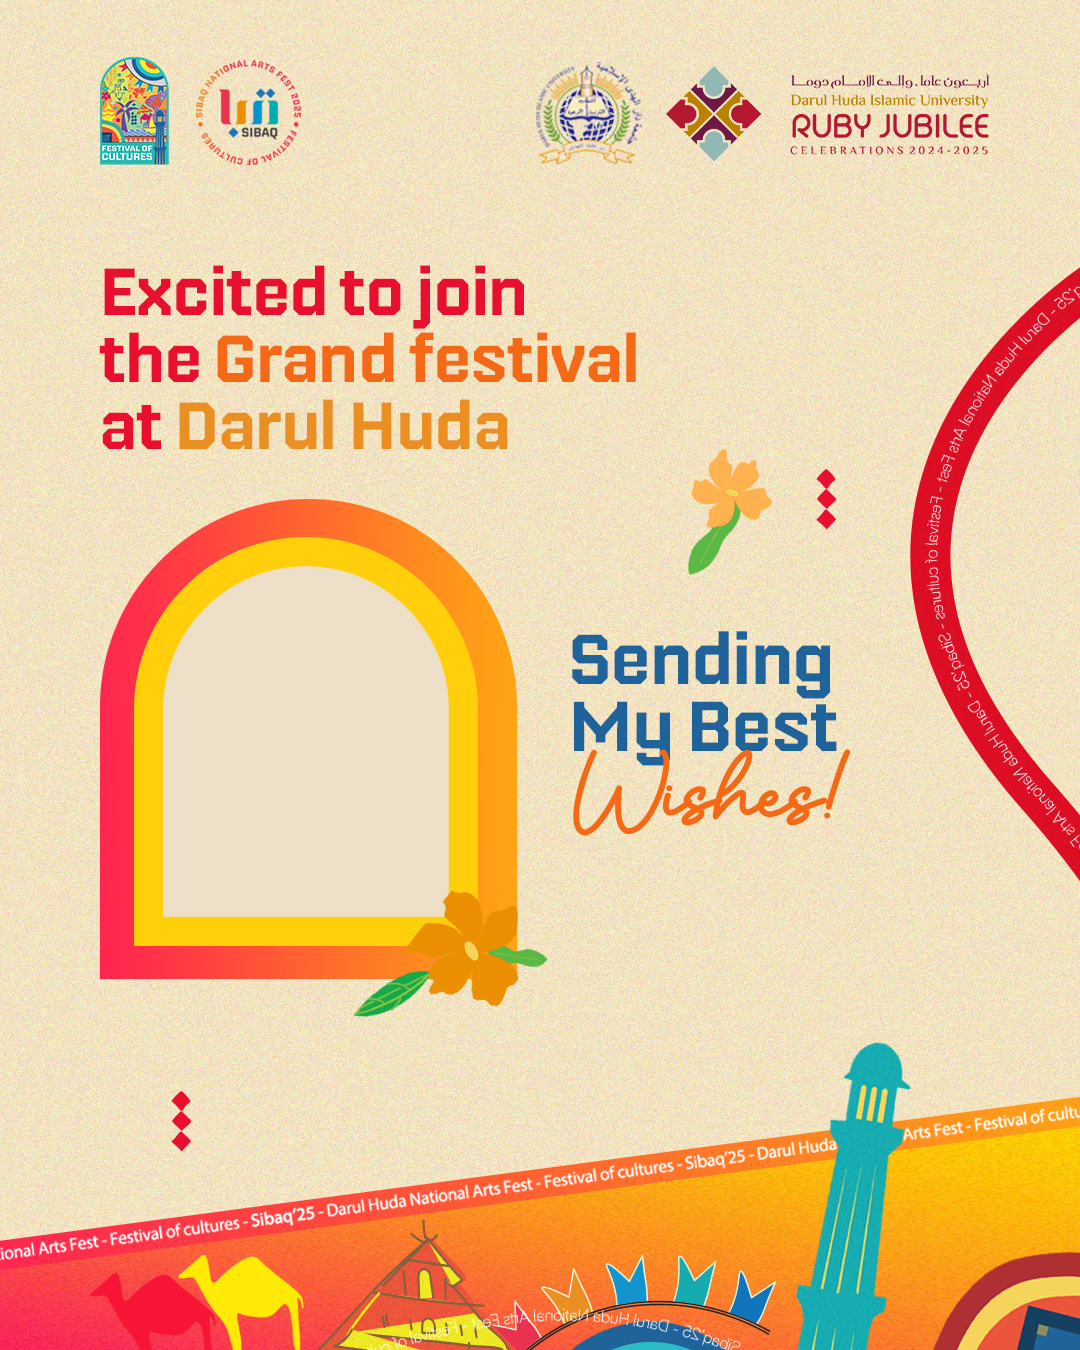
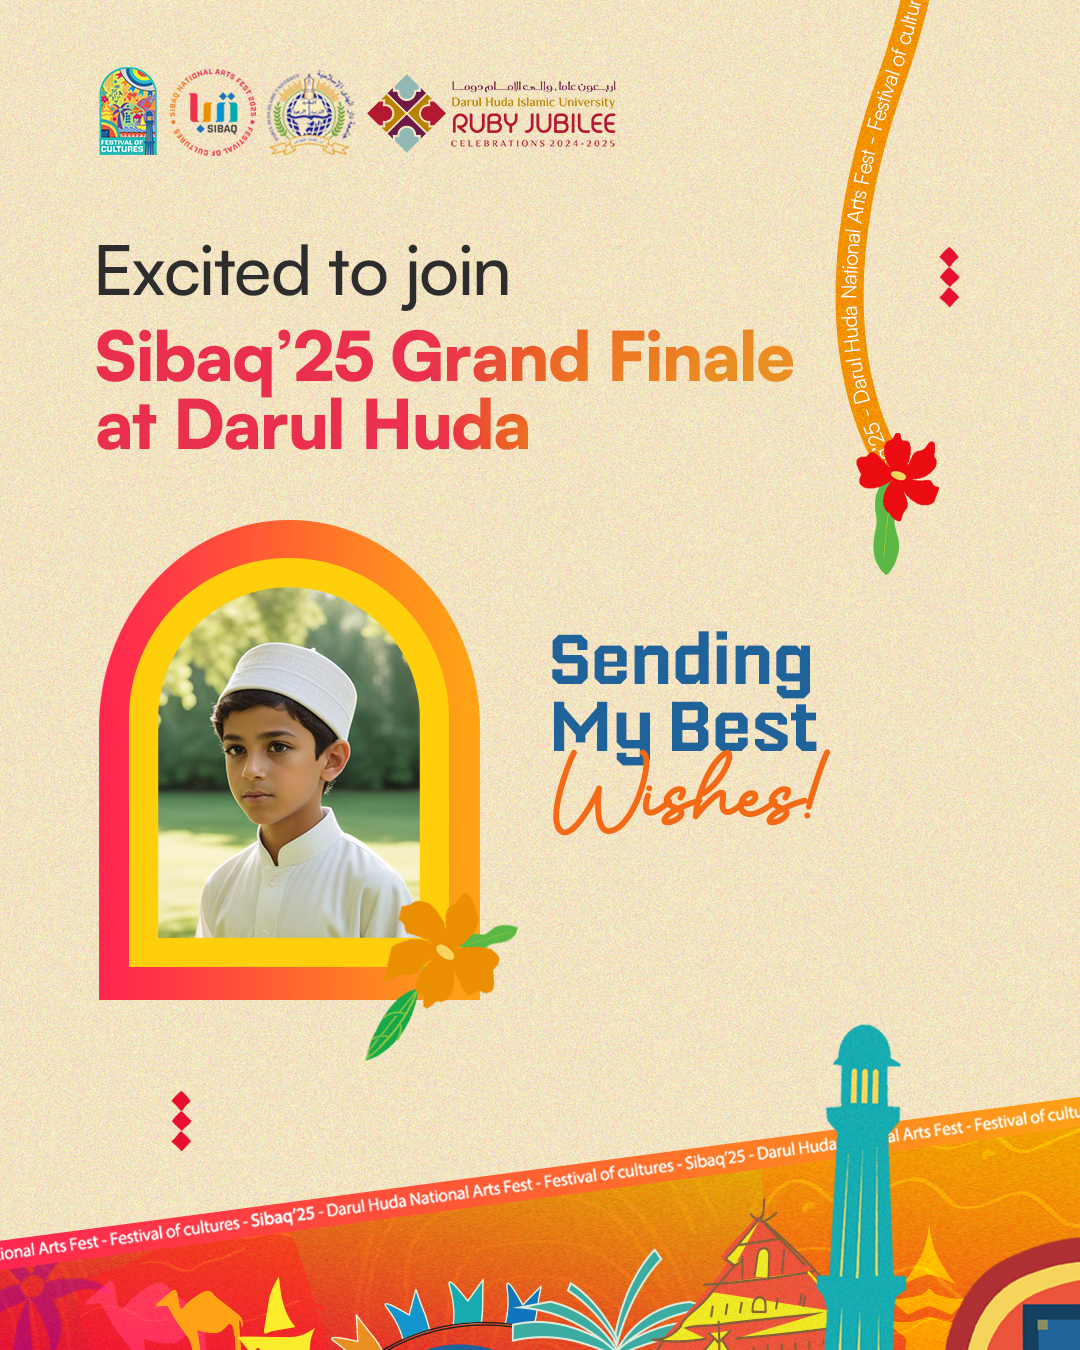
fix: correct spelling of "Campaign" in Header component and update social media links

diff --git a/src/components/home/PosterCampaign.tsx b/src/components/home/PosterCampaign.tsx
@@ -5,6 +5,9 @@ import html2canvas from "html2canvas";
 import localFont from "next/font/local";
 import Modal from "../Model";
 import { CroppedArea } from "@/libs/types";
+import InstagramIcon from "@/assets/vector/social-media/instagram.svg";
+import FacebookIcon from "@/assets/vector/social-media/facebook.svg";
+import WhatsappIcon from "@/assets/vector/social-media/whatsapp.svg";
 
 const nippo = localFont({ src: "../../fonts/nippo.ttf" });
 
@@ -165,7 +168,7 @@ const PosterCampaign = () => {
                           image={selectedImage}
                           crop={crop}
                           zoom={zoom}
-                          aspect={4 / 5} // Aspect ratio (square)
+                          aspect={4 / 5}
                           onCropChange={setCrop}
                           onZoomChange={setZoom}
                           onCropComplete={handleCropComplete}

diff --git a/src/libs/socialMediaLinks.ts b/src/libs/socialMediaLinks.ts
@@ -1,8 +1,7 @@
 import InstagramIcon from "@/assets/vector/social-media/instagram.svg";
 import FacebookIcon from "@/assets/vector/social-media/facebook.svg";
-import YoutubeIcon from "@/assets/vector/social-media/youtube.svg";
-// import SpotifyIcon from "@/assets/vector/social-media/spotify.svg";
 import WhatsappIcon from "@/assets/vector/social-media/whatsapp.svg";
+import YoutubeIcon from "@/assets/vector/social-media/youtube.svg";
 
 export const socialMediaLinks = [
   {
@@ -23,12 +22,6 @@ export const socialMediaLinks = [
     icon: WhatsappIcon,
     color: "green",
   },
-  // {
-  //   platform: "Spotify",
-  //   url: "#",
-  //   icon: SpotifyIcon,
-  //   color: "parrot",
-  // },
   {
     platform: "YouTube",
     url: "https://www.youtube.com/@dhmediayt",

diff --git a/src/app/poster-campign/page.tsx b/src/app/poster-campign/page.tsx
@@ -6,7 +6,7 @@ function page() {
   return (
     <>
       <Header
-        pageTitle="Poster Campign"
+        pageTitle="Poster Campaign"
         keywords={["Festival", "Downloads", "Files", "Forms", "Criteria"]}
       />
       <PosterCampaign />
